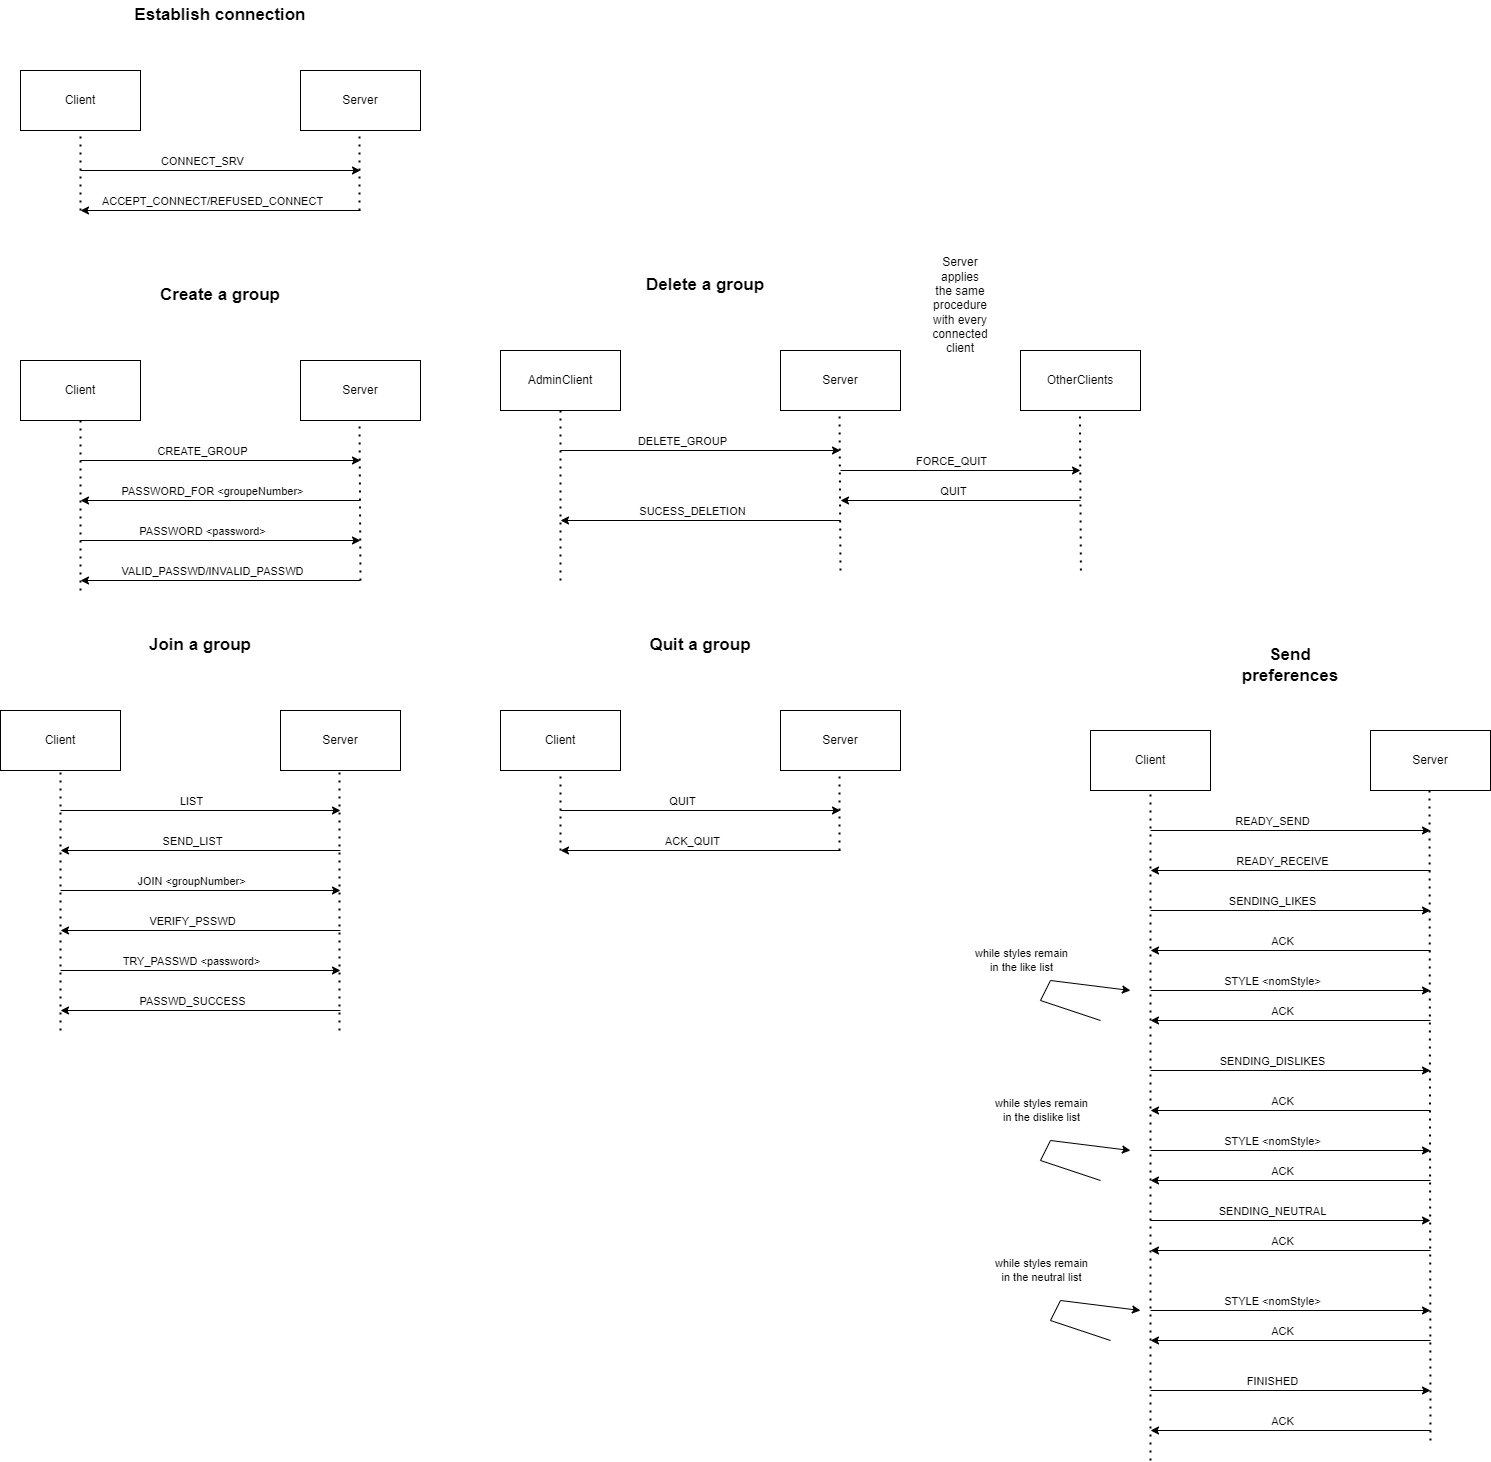
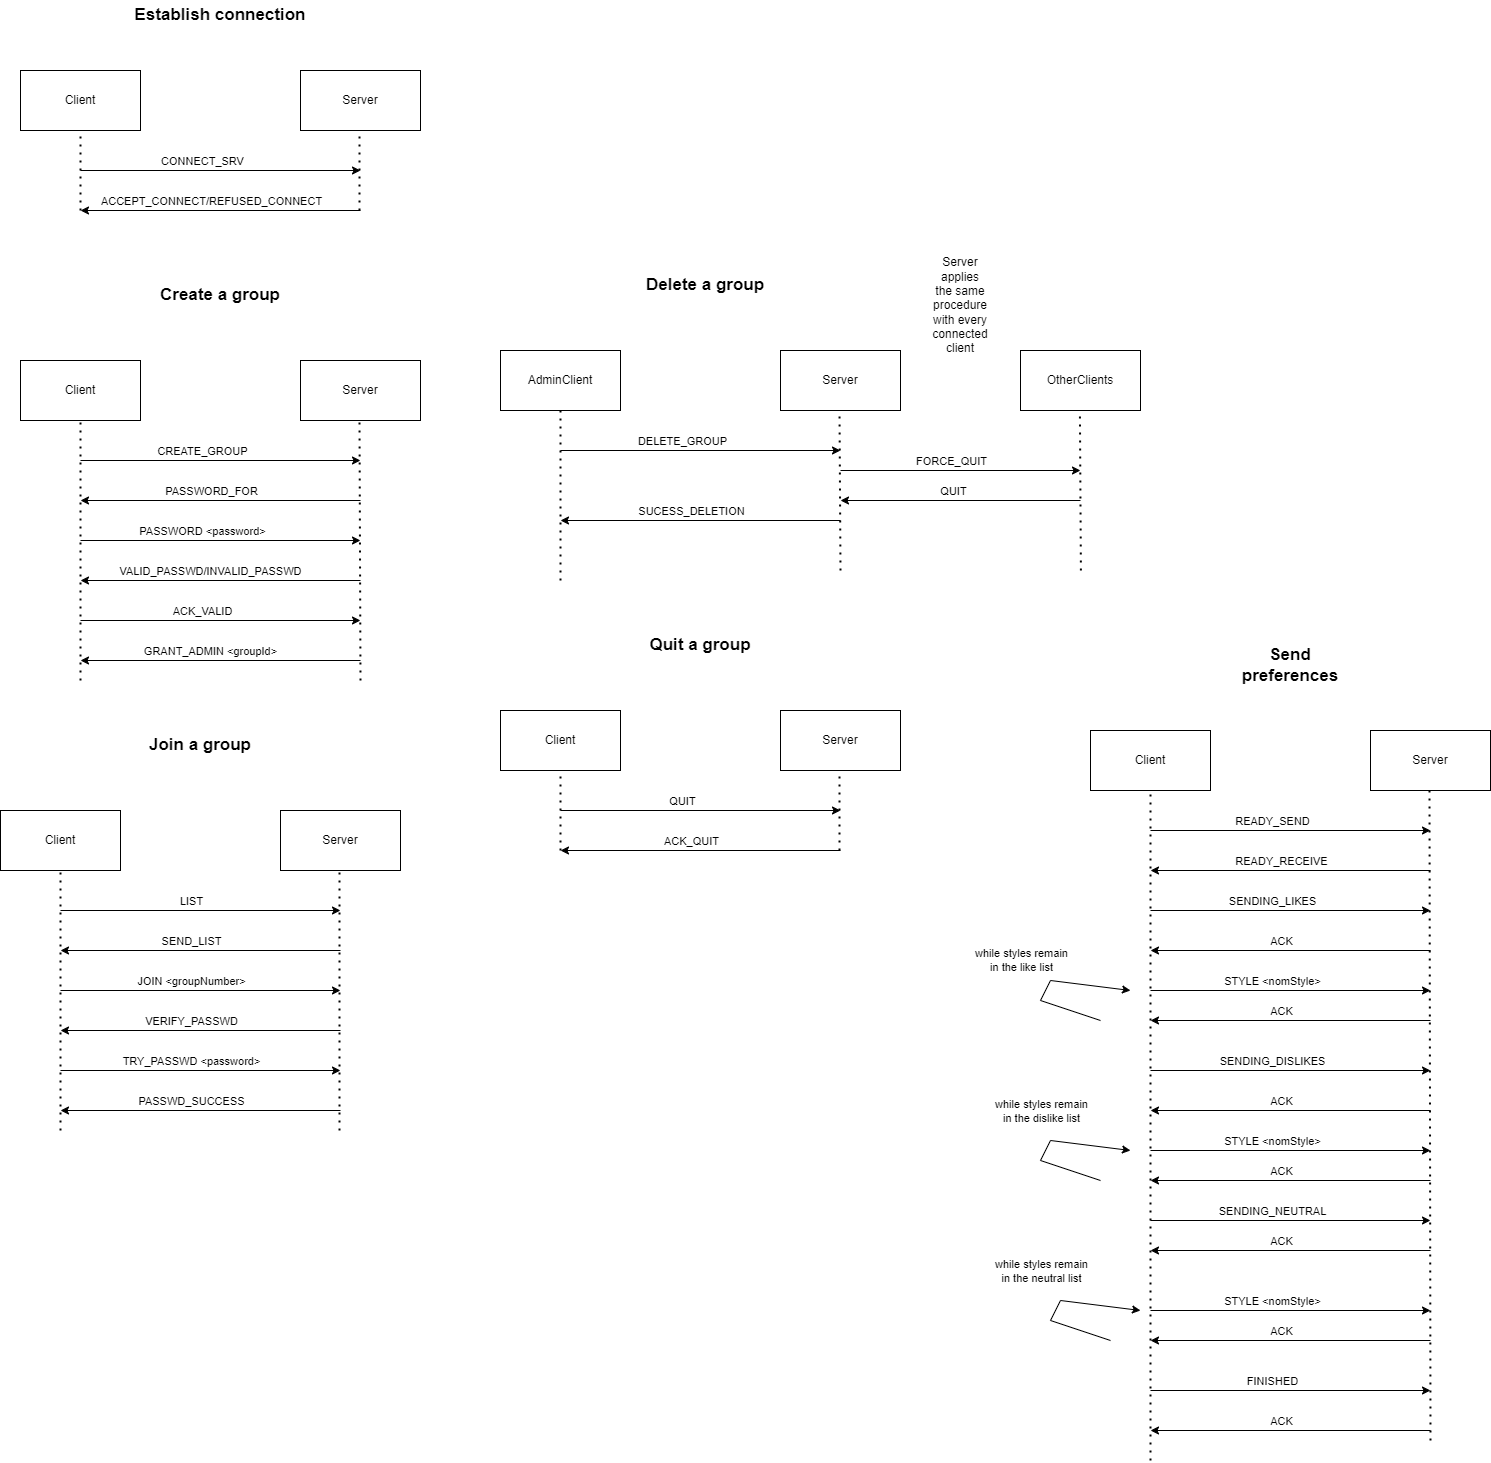
Application protocol adjustments

diff --git a/applicationProtocol/consulyProtocol.md b/applicationProtocol/consulyProtocol.md
@@ -1,5 +1,9 @@
 # Consuly protocol
 
+**SECTION 3 NOT UP TO DATE**
+
+
+
 ## Section 1 - Overview
 
 Consuly protocol is a custom application protocol used by the application consuly. 
@@ -67,10 +71,6 @@ TRY_PASSWD <password> : client indicates the server that it thinks the password 
 QUIT : the client indicates the server it wants to quit the group its in. 
 
 ACK_QUIT : the server indicates the server that it understood that the client quitted its group
-
-
-
-
 
 ### Send preferences
 
